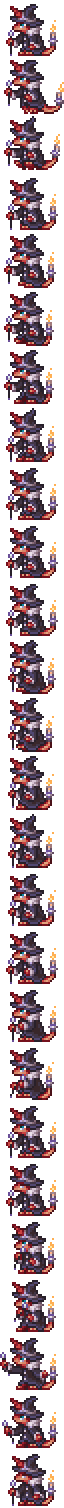
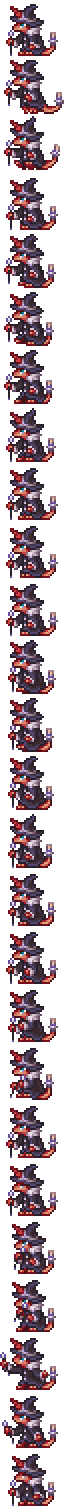
Enchanter frame fix

diff --git a/Content/Glyphs/Enchanter.cs b/Content/Glyphs/Enchanter.cs
@@ -32,7 +32,7 @@ public class Enchanter : ModNPC
 	public static readonly Dictionary<int, int> SpecialShop = [];
 
 	private static readonly Vector2[] TailOrigin = [
-			new(54, 32),
+		new(54, 32),
 		new(60, 34),
 		new(58, 28),
 		new(54, 32),
@@ -178,6 +178,8 @@ public class Enchanter : ModNPC
 		if (Main.dedServ)
 			return;
 
+		NPC.frame.Height = frameHeight = 56;
+
 		Texture2D texture = TextureAssets.Npc[Type].Value;
 		Rectangle fallFrame = texture.Frame(1, Main.npcFrameCount[Type], 0, 2, 0, -2);
 		bool falling = NPC.velocity.Y > 0;
@@ -187,16 +189,6 @@ public class Enchanter : ModNPC
 		else if (NPC.frame == fallFrame)
 			NPC.frame.Y += frameHeight; //Forcefully skip `fallFrame` during the walk cycle
 	}
-
-	/*public override bool PreDraw(SpriteBatch spriteBatch, Vector2 screenPos, Color drawColor)
-	{
-		Texture2D npcTexture = TextureAssets.Npc[Type].Value;
-		Rectangle npcSource = NPC.frame;
-		SpriteEffects effects = (NPC.spriteDirection == 1) ? SpriteEffects.FlipHorizontally : SpriteEffects.None;
-
-		Main.EntitySpriteDraw(npcTexture, NPC.Center - Main.screenPosition + new Vector2(0, NPC.gfxOffY), npcSource, NPC.DrawColor(drawColor), NPC.rotation, npcSource.Size() / 2, NPC.scale, effects);
-		return false;
-	}*/
 
 	public override void PostDraw(SpriteBatch spriteBatch, Vector2 screenPos, Color drawColor)
 	{
@@ -214,6 +206,8 @@ public class Enchanter : ModNPC
 			Vector2 position = NPC.Center - npcSource.Size() / 2 - screenPos + new Vector2(NPC.spriteDirection == 1 ? npcSource.Width - offset.X : offset.X, offset.Y + NPC.gfxOffY) + Main.rand.NextVector2Circular(2, 2);
 			Main.EntitySpriteDraw(flameTexture, position, flameSource, NPC.DrawColor(Color.White.Additive()), NPC.rotation, flameSource.Size() / 2, NPC.scale, 0);
 		}
+
+		Utils.DrawBorderString(spriteBatch, NPC.frame.ToString(), NPC.Center - screenPos + new Vector2(0, -40), Color.White);
 	}
 
 	#region attack

diff --git a/Common/UI/Enchantment/EnchanterUI.cs b/Common/UI/Enchantment/EnchanterUI.cs
@@ -257,25 +257,6 @@ public class EnchanterUI : AutoUIState
 	}
 
 	#region draw actions
-	private bool PriceInfo_Action(SpriteBatch spriteBatch, Rectangle bounds)
-	{
-		if (_hovered == default)
-			return false;
-
-		bounds.Y -= 4;
-		Rectangle innerBounds = new(bounds.X, bounds.Y, 50, bounds.Height);
-		CatalogueUI.DrawPanel(spriteBatch, innerBounds, Color.Black * 0.3f, Color.Black * 0.2f);
-		Texture2D texture = ChromaticWax.WorldTexture.Value;
-
-		spriteBatch.Draw(texture, innerBounds.Left() + new Vector2(14, 0), null, Color.White, 0, texture.Size() / 2, 1, 0, 0);
-		Utils.DrawBorderString(spriteBatch, Enchanter.SpecialShop[_hovered.Type].ToString(), innerBounds.Right() + new Vector2(-12, 4), Main.MouseTextColorReal, 0.9f, 0.5f, 0.5f);
-
-		if (innerBounds.Contains(Main.MouseScreen.ToPoint()))
-			Main.hoverItemName = Language.GetTextValue("LegacyInterface.46");
-
-		return false;
-	}
-
 	private bool NameInfo_Action(SpriteBatch spriteBatch, Rectangle bounds)
 	{
 		if (_hovered == default)
